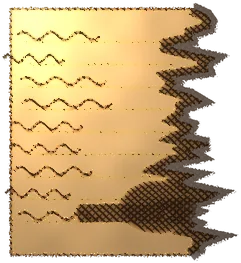
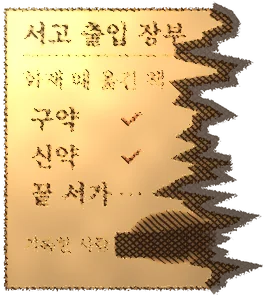
성경 서고: GPT 시나리오를 다듬은 원고 반영, 1막 첫마디를 기기의 시각에 맞춤
- 2–5막 대사를 앱용 원고로(장부의 반출 확인, 5막에서 지워진 이름이 사서의 이름으로 풀림, 아침 뒤 흉터)
- 1막 사서 말: 밤·이른 아침·한낮·해 질 녘에 따라 다름(목사님)
- 4막 "읽으실 때 꺼내 드리겠습니다" 살림(목사님이 4막 전에 외경 서가를 채움)
- 독서대 누르기, 물건 혼잣말 5막 전·후, 촛불 첫 누름 혼잣말, 통독표 대사
- 그림: 장부 다시 그림, 성경전서 새로

Claude-Session: https://claude.ai/code/session_01YHGXxyGbg79v2Vbzm5nK9K

diff --git a/docs/shelf_work/desk/check/test_story.py b/docs/shelf_work/desk/check/test_story.py
@@ -16,9 +16,13 @@ try:
         def start(q, sh=None):
             pg = cx.new_page(); pg.on('pageerror', lambda e: errs.append(str(e)))
             pg.goto('http://localhost:8765/index.html?'+q); pg.click('#go'); pg.wait_for_timeout(1000); return pg
-        T = lambda pg: (pg.locator('#cbsrShelf .dg .dgb span').first.inner_text() if pg.locator('#cbsrShelf .dg .dgb span').count() else '').replace('\n',' ')
+        T = lambda pg: (pg.locator('#cbsrShelf .dg .dgb span').last.inner_text() if pg.locator('#cbsrShelf .dg .dgb span').count() else '').replace('\n',' ')
         who = lambda pg: pg.locator('#cbsrShelf .dg .dgb b').first.inner_text() if pg.locator('#cbsrShelf .dg .dgb b').count() else ''
         def tap(pg): pg.click('#cbsrShelf .dg .dgb'); pg.wait_for_timeout(700)
+        def until_choice(pg):
+            for _ in range(12):
+                if pg.locator('#cbsrShelf .dgc').count(): return
+                tap(pg)
         # 1막
         pg = start('today=40'); lines=[]
         for i in range(3): lines.append((who(pg),T(pg))); pg.screenshot(path=OUT+'st_1_%d.png'%i); tap(pg)
@@ -28,8 +32,8 @@ try:
         # 다시 들어오면 보통 인사, 막 없음 → 물건 없음
         pg = start('today=40'); chk('두 번째: 보통 인사', '오셨습니까' in T(pg) and pg.locator('#cbsrShelf .itm').count()==0); pg.close()
         # 2막 열림
-        pg = start('today=40&acts=2'); t1=T(pg); tap(pg); pg.screenshot(path=OUT+'st_2_key.png'); clue=pg.locator('#cbsrShelf .clue img').count(); t2=T(pg); tap(pg); t3=T(pg); tap(pg)
-        chk('2막: 열쇠 장면(물건을 크게) %s' % [t1[:10],t2[:12],t3[:10]], '보이지 않는다' in t1 and clue==1 and '탔다' in t2 and who(pg)=='사서')
+        pg = start('today=40&acts=2'); t1=T(pg); tap(pg); pg.screenshot(path=OUT+'st_2_key.png'); clue=pg.locator('#cbsrShelf .clue img').count(); t2=T(pg); tap(pg); tap(pg); t4=T(pg); w4=who(pg); until_choice(pg)
+        chk('2막: 열쇠 장면(물건을 크게) %s' % [t1[:10],t2[:12],t4[:10]], '보이지 않는다' in t1 and clue==1 and '하나만 검다' in t2 and '끝 서가의 열쇠' in t4 and w4=='사서')
         pg.click('#cbsrShelf .dgc button:nth-child(2)'); pg.wait_for_timeout(800)
         chk('2막 뒤 통로에 열쇠가 놓임', pg.locator('#cbsrShelf .itm[data-a="itm:key"]').count()==1)
         pg.click('#cbsrShelf .itm[data-a="itm:key"]'); pg.wait_for_timeout(400); pg.screenshot(path=OUT+'st_2_item.png')
@@ -37,21 +41,31 @@ try:
         pg.close()
         pg = start('today=40&acts=2'); chk('2막은 한 번만', '오셨습니까' in T(pg)); pg.close()
         # 3·4막 차례로(둘 다 열려 있으면 앞의 것 먼저)
-        pg = start('today=40&acts=2,3,4'); pg.screenshot(path=OUT+'st_3_ledger.png'); s3='장부' in T(pg); tap(pg); tap(pg); tap(pg); pg.close()
-        pg = start('today=40&acts=2,3,4'); s4='그을린 서가' in T(pg); pg.screenshot(path=OUT+'st_4_book.png'); tap(pg); tap(pg); pg.close()
+        pg = start('today=40&acts=2,3,4'); tap(pg); pg.screenshot(path=OUT+'st_3_ledger.png'); s3='출입 장부' in T(pg); until_choice(pg); pg.close()
+        pg = start('today=40&acts=2,3,4'); s4='그을린 서가' in T(pg); pg.screenshot(path=OUT+'st_4_book.png'); until_choice(pg); pg.close()
         chk('3막 다음 들어올 때 4막', s3 and s4)
         pg = start('today=40&acts=2,3,4'); pg.click('#cbsrShelf .dgc button:nth-child(2)'); pg.wait_for_timeout(700)
         pg.click('#cbsrShelf .pad .mu'); pg.wait_for_timeout(1300); a=pg.locator('#cbsrShelf .itm[data-a="itm:ledger"]').count(); pg.screenshot(path=OUT+'st_p1.png')
         pg.click('#cbsrShelf .pad .mu'); pg.wait_for_timeout(1300); c=pg.locator('#cbsrShelf .itm[data-a="itm:book"]').count(); pg.screenshot(path=OUT+'st_p2.png')
-        chk('장부는 통로 가운데, 책은 그을린 서가', a==1 and c==1); pg.close()
+        chk('장부는 통로 가운데, 책은 그을린 서가', a==1 and c==1)
+        pg.click('#cbsrShelf .pad .md'); pg.wait_for_timeout(1300); pg.click('#cbsrShelf .itm.lect'); pg.wait_for_timeout(400)
+        chk('독서대를 누르면 혼잣말', '읽던 그대로' in pg.locator('#cbsrShelf .lbx').first.inner_text()); pg.close()
         # 5막 아침
-        pg = start('today=40&acts=2,3,4,5'); pg.wait_for_timeout(200); tap(pg); m0=pg.evaluate('document.querySelector("#cbsrShelf .hallv").classList.contains("morn")'); tap(pg); tap(pg); pg.wait_for_timeout(2400); pg.screenshot(path=OUT+'st_5_morn.png'); tap(pg)
-        chk('5막: "아침입니다"부터 서고가 밝아짐', m0 and pg.evaluate('document.querySelector("#cbsrShelf .hallv").classList.contains("morn")'))
+        pg = start('today=40&acts=2,3,4,5'); M=lambda: pg.evaluate('document.querySelector("#cbsrShelf .hallv").classList.contains("morn")'); seq=[]
+        for _ in range(9):
+            seq.append((T(pg)[:8], M(), pg.locator('#cbsrShelf .dg').count()))
+            if '성경전서' in T(pg): pg.screenshot(path=OUT+'st_5_bible.png')
+            if '아침입니다' in T(pg): pg.wait_for_timeout(2400); pg.screenshot(path=OUT+'st_5_morn.png')
+            tap(pg)
+        ia=[i for i,x in enumerate(seq) if '아침입니다' in x[0]]
+        chk('5막: 아홉 줄, "아침입니다"부터 서고가 밝아짐 %s' % seq, len(ia)==1 and not seq[ia[0]-1][1] and seq[ia[0]][1] and pg.locator('#cbsrShelf .dgc').count()>0)
         pg.close(); pg = start('today=40&acts=2,3,4,5'); chk('5막 뒤로는 늘 아침', pg.evaluate('document.querySelector("#cbsrShelf .hallv").classList.contains("morn")') and '오셨습니까' in T(pg)); pg.close()
         # 촛불 덤
         pg = start('today=40&fin=1,2,3'); pg.click('#cbsrShelf .dgc button:nth-child(2)'); pg.wait_for_timeout(700); pg.click('#cbsrShelf .zone[data-s=ot]'); pg.wait_for_timeout(1900)
         pg.click('#cbsrShelf .gl button >> nth=0'); pg.wait_for_timeout(1800); pg.screenshot(path=OUT+'st_fin.png')
-        chk('다 읽은 책(창·출·레)에 작은 촛불 셋', pg.locator('#cbsrShelf .fin').count()==3); pg.close()
+        chk('다 읽은 책(창·출·레)에 작은 촛불 셋', pg.locator('#cbsrShelf .fin').count()==3)
+        pg.click('#cbsrShelf .fin >> nth=0'); pg.wait_for_timeout(400); pg.screenshot(path=OUT+'st_fin.png')
+        chk('촛불을 처음 누르면 혼잣말', '촛불이 켜져' in pg.locator('#cbsrShelf .lbx').first.inner_text()); pg.close()
         cx.close()
         # 고비의 한마디: 새 기기에서(1막을 이미 본 것으로)
         for q, word, name in (('ot=1','구약을 다 지나','구약 마침'),('nb=5','신명기입니다','새 책'),):
@@ -65,6 +79,11 @@ try:
         pg.goto('http://localhost:8765/index.html'); pg.evaluate('localStorage.setItem("cbsr_shelf_qa",JSON.stringify({_s:{met:{v:"1",t:1},last:{v:"2027-01-10",t:1}}}))')
         pg.goto('http://localhost:8765/index.html?today=40&td=2027-02-01'); pg.click('#go'); pg.wait_for_timeout(1300)
         chk('오랜만에: '+T(pg), '다시 오셨군요' in T(pg)); pg.close(); cx.close()
+        for hh, word in ((9,'이른 아침에'),(14,'한낮에'),(18,'해 질 녘에'),(23,'밤에 오셨군요')):
+            cx = b.new_context(viewport={'width': 390, 'height': 800}, has_touch=True); pg = cx.new_page(); pg.on('pageerror', lambda e: errs.append(str(e)))
+            pg.add_init_script("(()=>{const D=Date,t0=new D(2027,2,1,%d,10,0).getTime()-D.now();class F extends D{constructor(...a){ if(a.length) super(...a); else super(D.now()+t0);} static now(){return D.now()+t0;}} window.Date=F;})()" % hh)
+            pg.goto('http://localhost:8765/index.html?today=40'); pg.click('#go'); pg.wait_for_timeout(1000); tap(pg); tap(pg)
+            chk('1막 첫마디, %d시: %s' % (hh, T(pg)), word in T(pg) and '늘 밤' in T(pg)); pg.close(); cx.close()
         b.close()
 finally:
     srv.terminate()
@@ -73,5 +92,5 @@ def sheet(names, out, h=640):
     S=Image.new('RGB',(sum(i.width for i in ims)+8*(len(ims)-1),h),(60,60,60)); x=0
     for im in ims: S.paste(im,(x,0)); x+=im.width+8
     S.save(OUT+out)
-sheet(['st_1_1','st_1_2','st_2_key','st_2_item','st_3_ledger','st_4_book'],'st_a.png'); sheet(['st_p1','st_p2','st_5_morn','st_fin'],'st_b.png')
+sheet(['st_1_2','st_2_key','st_3_ledger','st_4_book','st_5_bible','st_5_morn'],'st_a.png'); sheet(['st_2_item','st_p1','st_p2','st_fin'],'st_b.png')
 print('오류:', errs or '없음'); print('실패:', (fails+(['페이지 오류 %d건'%len(errs)] if errs else [])) or '없음', '(%d가지)' % n)

diff --git a/docs/shelf_work/desk/sketch/clue/mk_clues.py b/docs/shelf_work/desk/sketch/clue/mk_clues.py
@@ -27,7 +27,23 @@ for i in range(9):
     w=random.randint(50,92) if i<8 else 70
     L+='<path d="M44 %d q6 -5 12 0 t12 0 t12 0 t12 0 t12 0 t12 0" fill="none" stroke="#3a2614" stroke-width="1.6" transform="scale(%.2f 1) translate(%d 0)"/>'%(y,w/90,0)
 L+='<rect x="74" y="148" width="58" height="12" fill="#2b1a0e" opacity=".8" rx="3"/><ellipse cx="128" cy="150" rx="26" ry="18" fill="url(#ch)" opacity=".8"/></g></svg>'
+
+T='font-family="Noto Serif CJK KR,serif" fill="#3a2614"'
+L=H+D+'<g filter="url(#r)"><path d="%s" fill="#e8d6ad" stroke="#5a4226" stroke-width="1.5"/>'%pts
+L+='<path d="%s" fill="none" stroke="#1a0f08" stroke-width="9" opacity=".75"/>'%('M'+' L'.join('%.1f %.1f'%e for e in edge))
+L+='<text x="40" y="38" font-size="15" font-weight="700" %s>서고 출입 장부</text><line x1="40" y1="45" x2="138" y2="45" stroke="#8a6c44"/>'%T
+L+='<text x="40" y="64" font-size="12.5" %s>화재 때 옮긴 책</text>'%T
+L+='<text x="44" y="88" font-size="15" font-weight="700" %s>구약</text><text x="96" y="88" font-size="17" font-weight="700" fill="#7a2f22">✓</text>'%T
+L+='<text x="44" y="110" font-size="15" font-weight="700" %s>신약</text><text x="96" y="110" font-size="17" font-weight="700" fill="#7a2f22">✓</text>'%T
+L+='<text x="44" y="132" font-size="15" font-weight="700" %s>끝 서가 …</text>'%T
+L+='<text x="40" y="160" font-size="10" %s>기록한 사람</text><rect x="94" y="149" width="44" height="15" fill="#1e120a" opacity=".85" rx="3"/><ellipse cx="128" cy="152" rx="26" ry="16" fill="url(#ch)" opacity=".7"/></g></svg>'%T
 open('clue_ledger.svg','w').write(L)
 B=H+D+'<g filter="url(#r)"><rect x="70" y="28" width="60" height="150" rx="5" fill="#7a2f22" stroke="#2a120c" stroke-width="2"/><rect x="70" y="28" width="12" height="150" fill="#5e2219"/><rect x="76" y="50" width="48" height="5" fill="#d9b56a"/><rect x="76" y="150" width="48" height="5" fill="#d9b56a"/><rect x="88" y="80" width="30" height="44" rx="3" fill="#e8d6ad" stroke="#5a4226"/><path d="M95 94h16M95 102h16M95 110h12" stroke="#5a4226" stroke-width="2"/></g></svg>'
 open('clue_book.svg','w').write(B)
+G=H+D+'<g filter="url(#r)"><path d="M28 50 L100 40 L172 50 L172 160 L100 150 L28 160 Z" fill="#3a2214" stroke="#1a0c06" stroke-width="2"/>'
+G+='<path d="M36 56 L98 47 L98 146 L36 154 Z" fill="#efe1bd"/><path d="M102 47 L164 56 L164 154 L102 146 Z" fill="#efe1bd"/>'
+for i in range(8 if False else 6): G+='<line x1="44" y1="%d" x2="92" y2="%d" stroke="#6a5234" stroke-width="1.1"/><line x1="108" y1="%d" x2="156" y2="%d" stroke="#6a5234" stroke-width="1.1"/>'%(84+i*9,78+i*9,78+i*9,84+i*9)
+G+='<text x="52" y="72" font-size="11" font-weight="700" font-family="Noto Serif CJK KR,serif" fill="#7a2f22">성경전서</text>'
+G+='<path d="M28 160 Q60 150 100 150 Q140 150 172 160 L172 132 Q150 142 128 136 Q110 146 92 138 Q66 148 48 134 Q38 140 28 132 Z" fill="#140a05" opacity=".88"/><path d="M36 154 Q50 146 60 150 Q72 140 84 148 Q92 142 98 146 L98 128 Q90 134 82 126 Q70 136 58 128 Q48 136 36 130 Z" fill="#2a160a" opacity=".75"/></g></svg>'
+open('clue_bible.svg','w').write(G)
 print('ok')

diff --git a/docs/shelf_work/desk/check/test_card.py b/docs/shelf_work/desk/check/test_card.py
@@ -23,7 +23,7 @@ try:
             r = pg.evaluate('(()=>{const a=document.querySelector("#cbsrShelf .dgc").getBoundingClientRect(),b=document.querySelector("#cbsrShelf .dgb").getBoundingClientRect(),k=document.querySelector("#cbsrShelf .bk").getBoundingClientRect();return [a.top,k.bottom,a.bottom,b.top]})()')
             chk('선택지가 위 단추와 말상자에 겹치지 않음', r[0] > r[1] + 4 and r[2] <= r[3] + 1); shot('c1_hello4')
             pg.click('#cbsrShelf .dg .dgc button:nth-child(3)'); pg.wait_for_timeout(500)
-            chk('통독표: 사서의 말', '통독표입니다' in (txt('#cbsrShelf .dg .dgb') or '')); pg.wait_for_timeout(1700)
+            chk('통독표: 사서의 말', '읽으실 순서를 적었습니다' in (txt('#cbsrShelf .dg .dgb') or '')); pg.wait_for_timeout(1700)
             chk('통독표가 서고 안에서 열림(달력 42칸, 이번 달)', pg.locator('#cbsrShelf .pln .plg > *').count() == 42 and '2026년 11월' in (txt('#cbsrShelf .plh') or '') and pg.locator('#cbsrShelf').count() == 1); shot('p1_plan')
             r = pg.evaluate('(()=>{const s=document.querySelector("#cbsrShelf .st").getBoundingClientRect(),p=document.querySelector("#cbsrShelf .pln").getBoundingClientRect(),t=document.querySelector("#cbsrShelf .ttl b").getBoundingClientRect(),c=[...document.querySelectorAll("#cbsrShelf .plc small")].map(e=>e.scrollHeight>e.parentElement.clientHeight);return [p.top-t.bottom,innerHeight-p.bottom,p.left-s.left,s.right-p.right,c.filter(Boolean).length]})()')
             chk('통독표가 화면 안에 들어오고 제목과 겹치지 않음 %s' % [round(x) for x in r], r[0] > 2 and r[1] > 2 and r[2] > 2 and r[3] > 2)

diff --git a/docs/shelf_work/desk/check/test_banner.py b/docs/shelf_work/desk/check/test_banner.py
@@ -48,7 +48,9 @@ try:
         pg.screenshot(path=S+'ap_banner.png')
         pg.click('.sbnr.shst'); pg.wait_for_timeout(1800)
         chk('배너를 누르면 서고에서 2막', '보이지 않는다' in (T('#cbsrShelf .dg .dgb span') or ''), T('#cbsrShelf .dg .dgb span') or '')
-        for i in range(3): pg.click('#cbsrShelf .dg .dgb'); pg.wait_for_timeout(700)
+        for i in range(8):
+            if pg.locator('#cbsrShelf .dgc').count(): break
+            pg.click('#cbsrShelf .dg .dgb'); pg.wait_for_timeout(700)
         pg.evaluate("document.querySelector('#cbsrShelf .bk').click()"); pg.wait_for_timeout(1200)
         chk('2막을 본 뒤에는 배너가 사라짐', not has('.sbnr.shst'))
         cx.close(); b.close()

diff --git a/docs/CBSR_성경서고_GPT시나리오_검수_2026-11-25.md b/docs/CBSR_성경서고_GPT시나리오_검수_2026-11-25.md
@@ -113,3 +113,17 @@ w: 나 = 나의 혼잣말, 사서 = 사서(얼굴이 가운데). [물건]은 그
 - 그림 둘: 성경전서(아래가 탄 책), 장부 다시 그리기.
 - "내가 설명하는 ○○" 제목 바꾸기: 한 시간.
 - 모두 12월 1일 전에 넣을 수 있습니다.
+
+## 5. 목사님 결정과 넣은 것 (11-25 밤)
+
+목사님: "밤에 오셨군요는, 현실 시간상 아침이나 낮에 온 사람에게는 어울리지 않습니다. 현지 시각을 반영하여서 대사를 수정하세요. 4막 전에 외경서가를 채울 겁니다. 두세요. 사서를 그리스도의 모형처럼 읽혀도 문제 없습니다."
+
+- 3절의 앱용 원고를 그대로 넣었습니다.
+- **1막 사서의 첫마디는 기기의 시각에 따라 바뀝니다.** 밤(19시–5시) "…밤에 오셨군요." · 아침(5–11시) "…이른 아침에 오셨군요. 밖은 밝아도," · 낮(11–17시) "…한낮에 오셨군요. 밖은 밝아도," · 해 질 녘(17–19시) "…해 질 녘에 오셨군요." 뒤에는 모두 "이 서고는 늘 밤입니다."
+- **4막의 "…읽으실 때 꺼내 드리겠습니다."를 살렸습니다.** 목사님이 4막 전에 외경 서가를 채우십니다.
+- 흉터는 5막에 그대로 둡니다(그리스도의 모형처럼 읽혀도 됨).
+- 독서대를 누를 수 있습니다(1막 뒤). 물건과 독서대의 혼잣말은 5막 전·후로 다릅니다. 다 읽은 책의 촛불을 처음 누르면 "…읽은 책 위에 촛불이 켜져 있다."
+- 통독표를 줄 때: "…읽으실 순서를 적었습니다. 가져가십시오."
+- "내가 설명하는 ○○"는 이미 들어 있었습니다(다섯 줄을 다 적으면 제목이 바뀜).
+- 그림: 장부를 '구약 ✓ 신약 ✓ 끝 서가 …'가 보이게 다시 그렸고, 성경전서(아래가 탄 책)를 새로 그렸습니다.
+- 넣지 않은 것: 말씀 카드를 고른 뒤의 "…곁에 두고 읽으십시오." 고르면 바로 앱의 말씀 화면으로 넘어가서 사서가 말할 자리가 없습니다.
